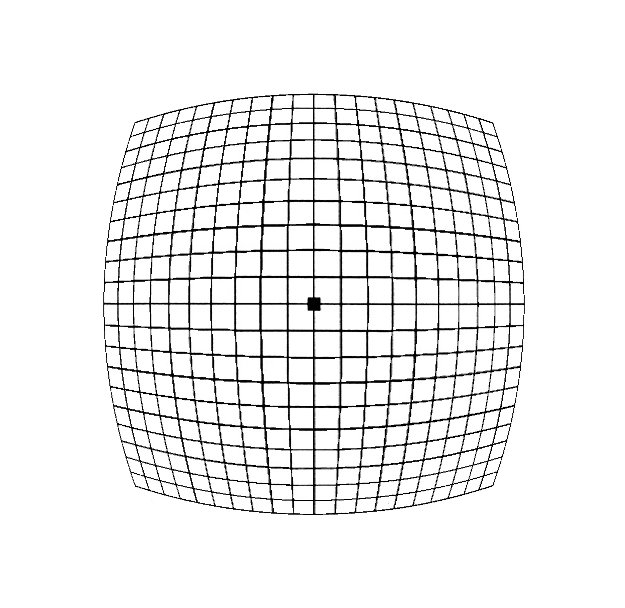
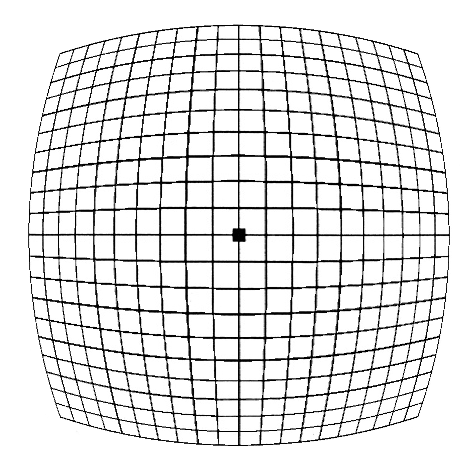
Update Readme, resize images

Changed region(s): [[0.0589, 0.0295, 0.9432, 0.9451]]

diff --git a/README.md b/README.md
@@ -1,27 +1,36 @@
-# iFish  
+# iFish
 
-### Apply Fish Eye effect to your photos 
+### Apply Fish Eye effect to your photos
+
+A naive implementation that moves pixels from/to the center based on a 'distortion' value.
 
 #### Before
-![Mona Lisa](Mona_Lisa.jpg)
+<img src="Mona_Lisa.jpg" alt="Mona Lisa" width="300px"/>
 
 #### After
-![fish.png](Mona_Lisa_fish.png)  
+<img src="Mona_Lisa_fish.png" alt="Mona Lisa after Fish-eye effect" width="300px"/>
 
 OR
 
 #### Before
-![grid](grid.jpg)
+<img src="grid.jpg" alt="grid pattern" width="300px"/>
 
 #### After
-![grid.png](grid_fish.png)  
+<img src="grid_fish.png" alt="grid pattern after fish-eye effect" width="300px"/>
 
 You can control the amount of distortion.
 You can also apply "reverse-fish" (rectilinear lens) by specifying negative distortion.
 
-For usage: `python3 fish.py -h`
+### Usage:
+
+#### Cmdline:
+`python fish.py -h`
+
+#### Local Web Interface with [streamlit](https://streamlit.io/)
+`streamlit run streamlit_app.py`
+
 
 ### Dependencies
 ```bash
-pip3 install -r requirements.txt
+pip install -r requirements.txt
 ```